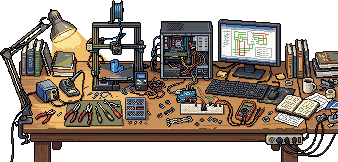
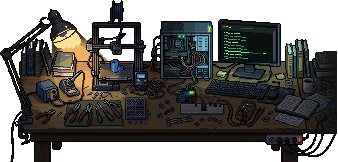
Relight the hero desk as a night scene
Dims the desk to a dark ambient tone with a warm pool of light under
the lamp and a cool glow from the monitor; adds glowing LEDs to the
PC, Arduino, and power strip; replaces the monitor's circuit-diagram
screen with a dark terminal (text follows the monitor's own skew);
and fades the right edge into the page background instead of cutting
it off with a hard vertical line, matching how the left edge already
tapers via the lamp and desk perspective.

The original flat artwork is kept at hero-desk-original.png as a
backup/source; it isn't referenced by any template.

diff --git a/templates/index.html b/templates/index.html
@@ -11,7 +11,7 @@
       <a href="/articles/" class="btn btn--quiet">READ POSTS</a>
     </p>
   </div>
-  <img class="hero-art" src="/art/hero-desk.png" width="338" height="162" alt="Pixel art of a cluttered electronics workbench: a desk lamp, a 3D printer mid-print, an open PC tower, a monitor showing a circuit layout, a breadboard, a multimeter and hand tools" loading="eager">
+  <img class="hero-art" src="/art/hero-desk.png" width="338" height="162" alt="Pixel art of a cluttered electronics workbench at night: a desk lamp casting a warm glow, a 3D printer mid-print, an open PC tower with glowing LEDs, a monitor showing a dark terminal, a breadboard, a multimeter and hand tools" loading="eager">
 </section>
 
 <section class="home-section">

diff --git a/CLAUDE.md b/CLAUDE.md
@@ -40,7 +40,7 @@ When adding a new reusable fragment, follow this same pattern and document the v
 
 ### Pixel art pipeline
 
-The home-page hero is the exception: `static/art/hero-desk.png` is a hand-made PNG (338×162, exact 49-colour indexed palette), not generated — too many colours at that size to be sensible as SVG rects. If you replace it, keep it an indexed PNG with the exact source palette (a generic quantizer shifts colours), and update the `width`/`height` on the `<img>` in `templates/index.html`; `tests/test_pixelart.py::TestHeroImage` fails if they disagree.
+The home-page hero is the exception: `static/art/hero-desk.png` is a hand-made PNG (338×162), not generated — too many colours at that size to be sensible as SVG rects. The currently-installed version is a relit (night-time) edit of the original artwork — warmer lamp glow, a dark terminal on the monitor, glowing LEDs, and the right edge faded toward the page background (`--bg`) instead of cut off — so it's a truecolor RGBA PNG with a few thousand colours rather than a small indexed palette; that's expected for a lit/shaded derivative and not a regression. `static/art/hero-desk-original.png` keeps the pristine, un-relit artwork (338×162, exact 49-colour indexed palette) as a source/backup; it isn't referenced by any template. If you replace the installed hero outright with new flat artwork, go back to an indexed PNG with an exact palette (a generic quantizer shifts colours); either way, update the `width`/`height` on the `<img>` in `templates/index.html` if the dimensions change — `tests/test_pixelart.py::TestHeroImage` fails if they disagree.
 
 The project-card art follows the generated pipeline: `art/*.txt` (hand-authored text grids: a palette header, then rows of characters, `.` = transparent) → `scripts/pixelart.py art static/art` → `static/art/*.svg`. The SVGs are committed; `tests/test_pixelart.py::test_generated_files_current` fails the build if a `.txt` source and its `.svg` have drifted apart, so always regenerate after editing an art source. Art files are authored as small Python scripts using `scripts/pixelart.py`'s `Grid` helper during design (see commit history for examples) and then hand-tuned; there is no separate "art builder" committed to the repo.
 
